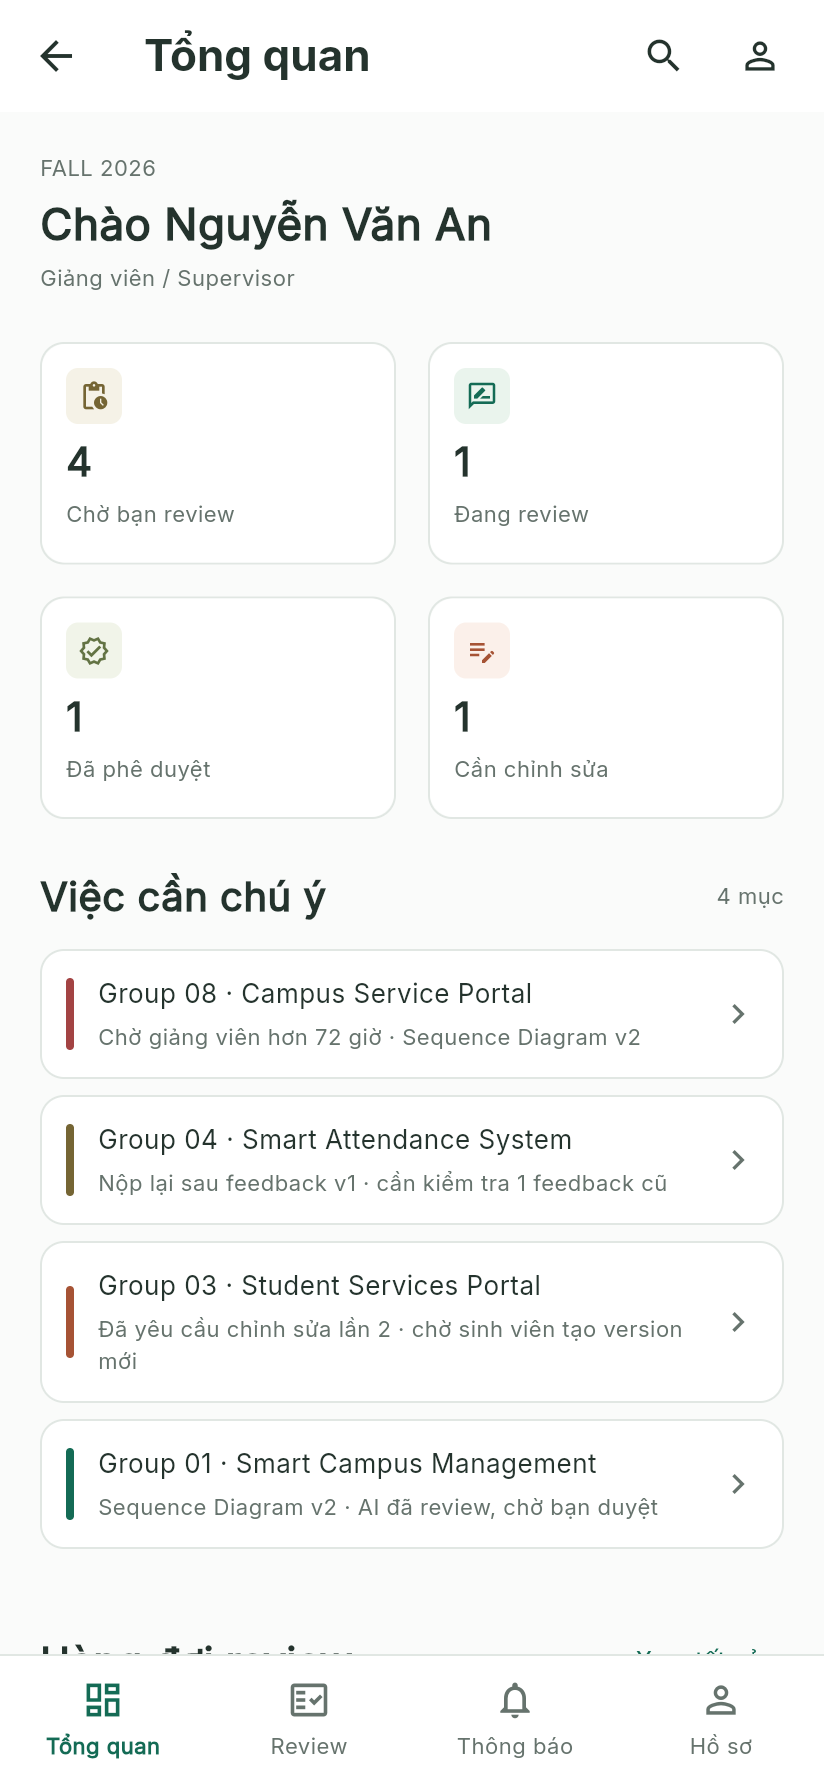
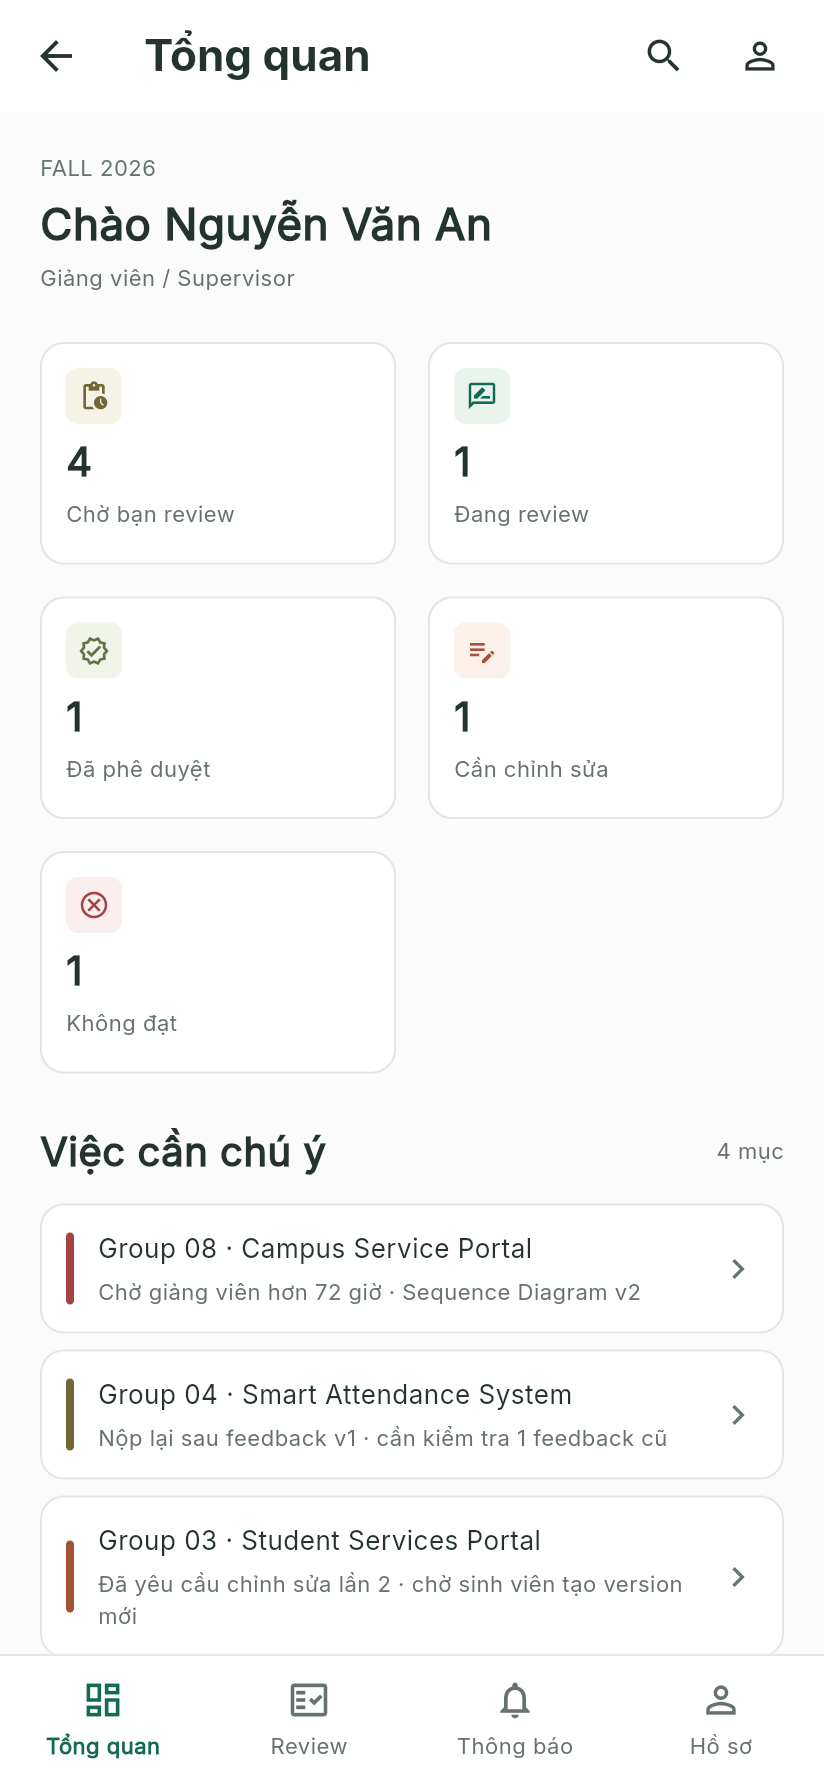
fix(011_DASH): them the "Khong dat", Tong quan dem du 8 tai lieu
Doi thu 5 — "giao dien noi thieu su that": doi chieu so tren man voi du
lieu goc (`201_DOMAIN_mock_datasource.dart`).

Du lieu co 8 yeu cau (waiting 4, inReview 1, needsRevision 1, approved 1,
notAccepted 1). Tong quan chi co 4 the (Chờ / Đang review / Đã phê duyệt /
Cần chỉnh sửa) = 7. Trạng thái `notAccepted` ("Không đạt") KHONG duoc the
nào đếm -> giảng viên thiếu mất một tài liệu đã bị trả về, và không có cách
nào từ Tổng quan nhận ra nó tồn tại. Lỗi nguy hiểm vì DƯỚI ĐẾM workload.

Sua: them the thu 5 "Không đạt" (Tone.danger), đọc từ getter _rejected.
Gio 5 the = 8 = đung tổng. Review list lọc rỗng mặc định nên hiển đủ,
khong bot sot.

Them test/dashboard_totals_test.dart 2 ca: (a) tổng 5 StatCard.value phải
bằng ĐÚNG requests().length, (b) phải có chữ "Không đạt". Đã chứng minh ĐỎ
trước sửa (tổng 4 the = 7 != 8), XANH sau.

Ket qua: flutter test 102/102, analyze sach, 8 cong SACH, lab2-gate
100/100, journeys 8/8, tap-target 9/9 man / 91 muc / 0 duoi 48dp.

diff --git a/flutter_app/test/dashboard_totals_test.dart b/flutter_app/test/dashboard_totals_test.dart
@@ -1,0 +1,86 @@
+import 'package:flutter/material.dart';
+import 'package:flutter_test/flutter_test.dart';
+import 'package:google_fonts/google_fonts.dart';
+
+import 'package:mobi_review/101_domain_entities/101_DOMAIN_review_entities.dart';
+import 'package:mobi_review/202_data_repositories/202_DOMAIN_review_repository.dart';
+import 'package:mobi_review/main.dart';
+import 'package:mobi_review/011_presentation/shared/011_CORE_shared_status_chip.dart';
+
+/// Số liệu trên Tổng quan phải ĐẾM ĐỦ, không được bỏ sót tài liệu nào.
+///
+/// VÌ SAO CÓ FILE NÀY (14/10, đợt 5): Tổng quan có 4 thẻ
+/// (Chờ / Đang review / Đã phê duyệt / Cần chỉnh sửa) = 4+1+1+1 = 7, nhưng dữ
+/// liệu có **8** yêu cầu. Trạng thái `notAccepted` ("Không đạt") **không được
+/// thẻ nào đếm** — giảng viên nhìn Tổng quan sẽ thiếu mất một tài liệu, và
+/// không có cách nào từ Tổng quan nhận ra tài liệu đó đã bị trả về.
+///
+/// Đây là lỗi im lặng thuộc họ "giao diện nói thiếu sự thật": không có thông
+/// báo sai, chỉ là con số không khớp dữ liệu.
+void main() {
+  setUpAll(() => GoogleFonts.config.allowRuntimeFetching = false);
+  setUp(() => ReviewRepository.instance.resetForTest());
+
+  Future<void> boot(WidgetTester tester) async {
+    tester.view.physicalSize = const Size(1080, 2280);
+    tester.view.devicePixelRatio = 3.0;
+    addTearDown(tester.view.resetPhysicalSize);
+    addTearDown(tester.view.resetDevicePixelRatio);
+
+    await tester.pumpWidget(const MobiReviewApp());
+    await tester.pumpAndSettle();
+    await tester.tap(find.text('Đăng nhập bằng SSO trường'));
+    await tester.pump(const Duration(milliseconds: 400));
+    await tester.pumpAndSettle();
+    // `AppShell` khởi tại tab 0 = Tổng quan, nên SAU KHI ĐĂNG NHẬP đã ở đúng
+    // màn. KHÔNG bấm "Tổng quan" (nhãn này trùng với tiêu đề AppBar -> finder
+    // lưỡng nghĩa).
+  }
+
+  testWidgets('TC_US02_BV_02 — tổng các thẻ số liệu = tổng số yêu cầu thật', (
+    tester,
+  ) async {
+    await boot(tester);
+
+    final all = ReviewRepository.instance.requests();
+    expect(all.length, greaterThan(0), reason: 'phải có dữ liệu để đếm');
+
+    // Gom đúng các con số của StatCard (4 thẻ) — không lấy nhầm số khác.
+    final statCards = find.byType(StatCard).evaluate();
+    expect(statCards.length, 5, reason: 'Tổng quan phải có đúng 5 thẻ số liệu');
+    final shownNumbers = statCards.map((e) {
+      final card = e.widget as StatCard;
+      return int.parse(card.value);
+    }).toList();
+
+    // Tổng các thẻ StatCard phải bằng tổng số yêu cầu thật.
+    final totalShown = shownNumbers.fold<int>(0, (a, b) => a + b);
+    expect(
+      totalShown,
+      all.length,
+      reason:
+          'Tổng 4 thẻ StatCard ($totalShown) != số yêu cầu thật '
+          '(${all.length}) => có trạng thái bị bỏ sót',
+    );
+  });
+
+  testWidgets('TC_US02_BV_03 — có tài liệu "Không đạt" thì Tổng quan phải nói ra', (
+    tester,
+  ) async {
+    final rejected = ReviewRepository.instance
+        .requests()
+        .where((r) => r.status == DocStatus.notAccepted)
+        .toList();
+    expect(rejected.length, 1, reason: 'dữ liệu mẫu phải có 1 tài liệu Không đạt');
+
+    await boot(tester);
+
+    // Phải có chỗ để nhìn thấy số tài liệu "Không đạt": hoặc một thẻ riêng,
+    // hoặc một dòng tổng. Nếu không có gì thì tài liệu đó vô hình.
+    expect(
+      find.text('Không đạt').evaluate().isNotEmpty,
+      isTrue,
+      reason: 'tài liệu "Không đạt" đang vô hình trên Tổng quan',
+    );
+  });
+}

diff --git a/flutter_app/lib/011_presentation/dashboard/us02/011_DASH_US02_dashboard_screen.dart b/flutter_app/lib/011_presentation/dashboard/us02/011_DASH_US02_dashboard_screen.dart
@@ -68,6 +68,9 @@ class _DashboardScreenState extends State<DashboardScreen> {
       .where((r) => r.status == DocStatus.needsRevision)
       .length;
 
+  int get _rejected =>
+      ReviewRepository.instance.requests().where((r) => r.status == DocStatus.notAccepted).length;
+
   @override
   Widget build(BuildContext context) {
     if (_loading) {
@@ -210,6 +213,16 @@ class _DashboardScreenState extends State<DashboardScreen> {
         value: '$_needsRevision',
         icon: Icons.edit_note_outlined,
         tone: Tone.rust,
+        onTap: () => Navigator.of(context).pushNamed('/reviews'),
+      ),
+      // Thẻ "Không đạt" từng BỊ THIẾU (đợt 5): 4 thẻ cũ = 4+1+1+1 = 7, nhưng dữ
+      // liệu có 8 yêu cầu. Trạng thái `notAccepted` không được thẻ nào đếm ->
+      // giảng viên nhìn Tổng quan thiếu mất tài liệu đã bị trả về. Giờ đếm đủ.
+      StatCard(
+        label: 'Không đạt',
+        value: '$_rejected',
+        icon: Icons.cancel_outlined,
+        tone: Tone.danger,
         onTap: () => Navigator.of(context).pushNamed('/reviews'),
       ),
     ],

diff --git a/facts/MEASUREMENTS.md b/facts/MEASUREMENTS.md
@@ -253,3 +253,32 @@ chú thích. Muốn cố ý để nút không hoạt động thì phải viết
 "Xem trước 12 trang" nên phép kiểm luôn đúng; phải đổi sang đếm xem có **thêm** bề mặt
 mới mở ra không. (b) không cuộn tới thẻ tệp trước khi bấm. Cả hai đều là
 "test tự đúng" — phải tự hỏi *test này có thể ĐỎ vì lý do gì* trước khi tin nó.
+
+## 3f. Tổng quan đếm thiếu một trạng thái (14/10, đợt 5)
+
+Tiếp đợt 4: soi lớp "giao diện nói thiếu sự thật" — đối chiếu SỐ HIỆN TRÊN MÀN
+với DỮ LIỆU GỐC trong `201_DOMAIN_mock_datasource.dart`.
+
+Dữ liệu có **8** yêu cầu: `waiting 4, inReview 1, needsRevision 1, approved 1,
+notAccepted 1`. Tổng quan có 4 thẻ số liệu (Chờ / Đang review / Đã phê duyệt /
+Cần chỉnh sửa) = 4+1+1+1 = **7**. Trạng thái `notAccepted` ("Không đạt") **không
+được thẻ nào đếm** — giảng viên nhìn Tổng quan sẽ thiếu mất một tài liệu đã bị
+trả về, và không có cách nào từ Tổng quan nhận ra sự tồn tại của nó.
+
+Lỗi im lặng thuộc họ §3d/§3e: không có thông báo sai, chỉ là con số không khớp.
+Đặc biệt nguy hiểm vì nó **dưới đếm** workload — giảng viên tưởng còn 7 việc mà
+thực ra có 8.
+
+**Sửa:** thêm thẻ thứ 5 "Không đạt" (`Tone.danger`, icon `cancel_outlined`), đọc
+từ getter `_rejected`. Giờ 5 thẻ = 4+1+1+1+1 = 8 = đúng tổng.
+
+**Cổng chống tái phát:** `test/dashboard_totals_test.dart` — (a) tổng giá trị 5
+`StatCard` phải **bằng đúng** `requests().length`, (b) phải có chữ "Không đạt"
+trên màn.
+
+**Đã chứng minh cổng ĐỎ được:** trước sửa, tổng 4 thẻ = 7 ≠ 8 → ĐỎ
+(`Actual: <7>`); sau sửa → XANH. (Lỗi phụ của riêng tôi: test đầu dùng `Set`
+nên 3 số `1` gộp thành 1 → tổng 5; sửa sang đọc đúng `StatCard.value` mới đúng.)
+
+**Quét thêm:** review list (`us03`) lọc rỗng mặc định nên HIỆN ĐỦ 8, không bỏ
+sót. Filter use case nhận `statuses` tường minh từ caller nên không tự bỏ sót.
